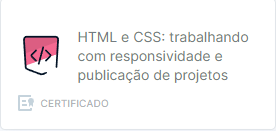
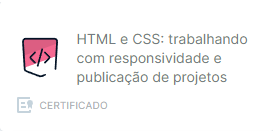
posicionando todos os cursos em ordem de data e tamanho

diff --git a/versao_atual/meus_cursos.html b/versao_atual/meus_cursos.html
@@ -22,6 +22,48 @@
                         src="./img/html_css_pt3.png" alt=""></li>
                 <li class="conteudoPrincipal-lista-cursos"><img
                         src="./img/html_css_pt4.png" alt=""></li>
+                <li class="conteudoPrincipal-lista-cursos"><img
+                        src="./img/git_github.png" alt=""></li>
+                <li class="conteudoPrincipal-lista-cursos"><img
+                        src="./img/acessibilidade_web.png" alt=""></li>
+                <li class="conteudoPrincipal-lista-cursos"><img
+                        src="./img/logica_de_programacao_js.png" alt=""></li>
+                <li class="conteudoPrincipal-lista-cursos"><img
+                        src="./img/linux_1.png" alt=""></li>
+                <li class="conteudoPrincipal-lista-cursos"><img
+                        src="./img/vscde_aprendendo.png" alt=""></li>
+                <li class="conteudoPrincipal-lista-cursos"><img
+                        src="./img/js_tipos_variaveis_funcoes.png" alt=""></li>
+                <li class="conteudoPrincipal-lista-cursos"><img
+                        src="./img/obs_studio.png" alt=""></li>
+                <li class="conteudoPrincipal-lista-cursos"><img
+                        src="./img/vegas_edicao_de_video.png" alt=""></li>
+                <li class="conteudoPrincipal-lista-cursos"><img
+                        src="./img/js_explorando_a_lingaguem.png" alt=""></li>
+                <li class="conteudoPrincipal-lista-cursos"><img
+                        src="./img/filmora_x.png" alt=""></li>
+                <li class="conteudoPrincipal-lista-cursos"><img
+                        src="./img/html_css_ambientes_desenvolvimento_estrutura_de_arquivos_e_tags.png"
+                        alt=""></li>
+                <li class="conteudoPrincipal-lista-cursos"><img
+                        src="./img/html_css_classes_posicionamento_flexbox.png"
+                        alt=""></li>
+                <li class="conteudoPrincipal-lista-cursos"><img
+                        src="./img/aprender_a_aprender.png" alt=""></li>
+                <li class="conteudoPrincipal-lista-cursos"><img
+                        src="./img/flexbox.png" alt=""></li>
+                <li class="conteudoPrincipal-lista-cursos"><img
+                        src="./img/js_arrays.png" alt=""></li>
+                <li class="conteudoPrincipal-lista-cursos"><img
+                        src="./img/js_objetos.png" alt=""></li>
+                <li class="conteudoPrincipal-lista-cursos"><img
+                        src="./img/html_css_cabecalho_footer_e_variaveis.png"
+                        alt=""></li>
+                <li class="conteudoPrincipal-lista-cursos"><img
+                        src="./img/html_css_trabalhando_com_responsividade_e_publicacao.png"
+                        alt=""></li>
+                <li class="conteudoPrincipal-lista-cursos"><img
+                        src="./img/html_css_praticando.png" alt=""></li>
 
 
             </ul>

diff --git a/versao_atual/css/meus_cursos.css b/versao_atual/css/meus_cursos.css
@@ -16,4 +16,5 @@ body {
 
 .conteudoPrincipal-lista-cursos {
     list-style: none;
+    width: 274px;
 }
